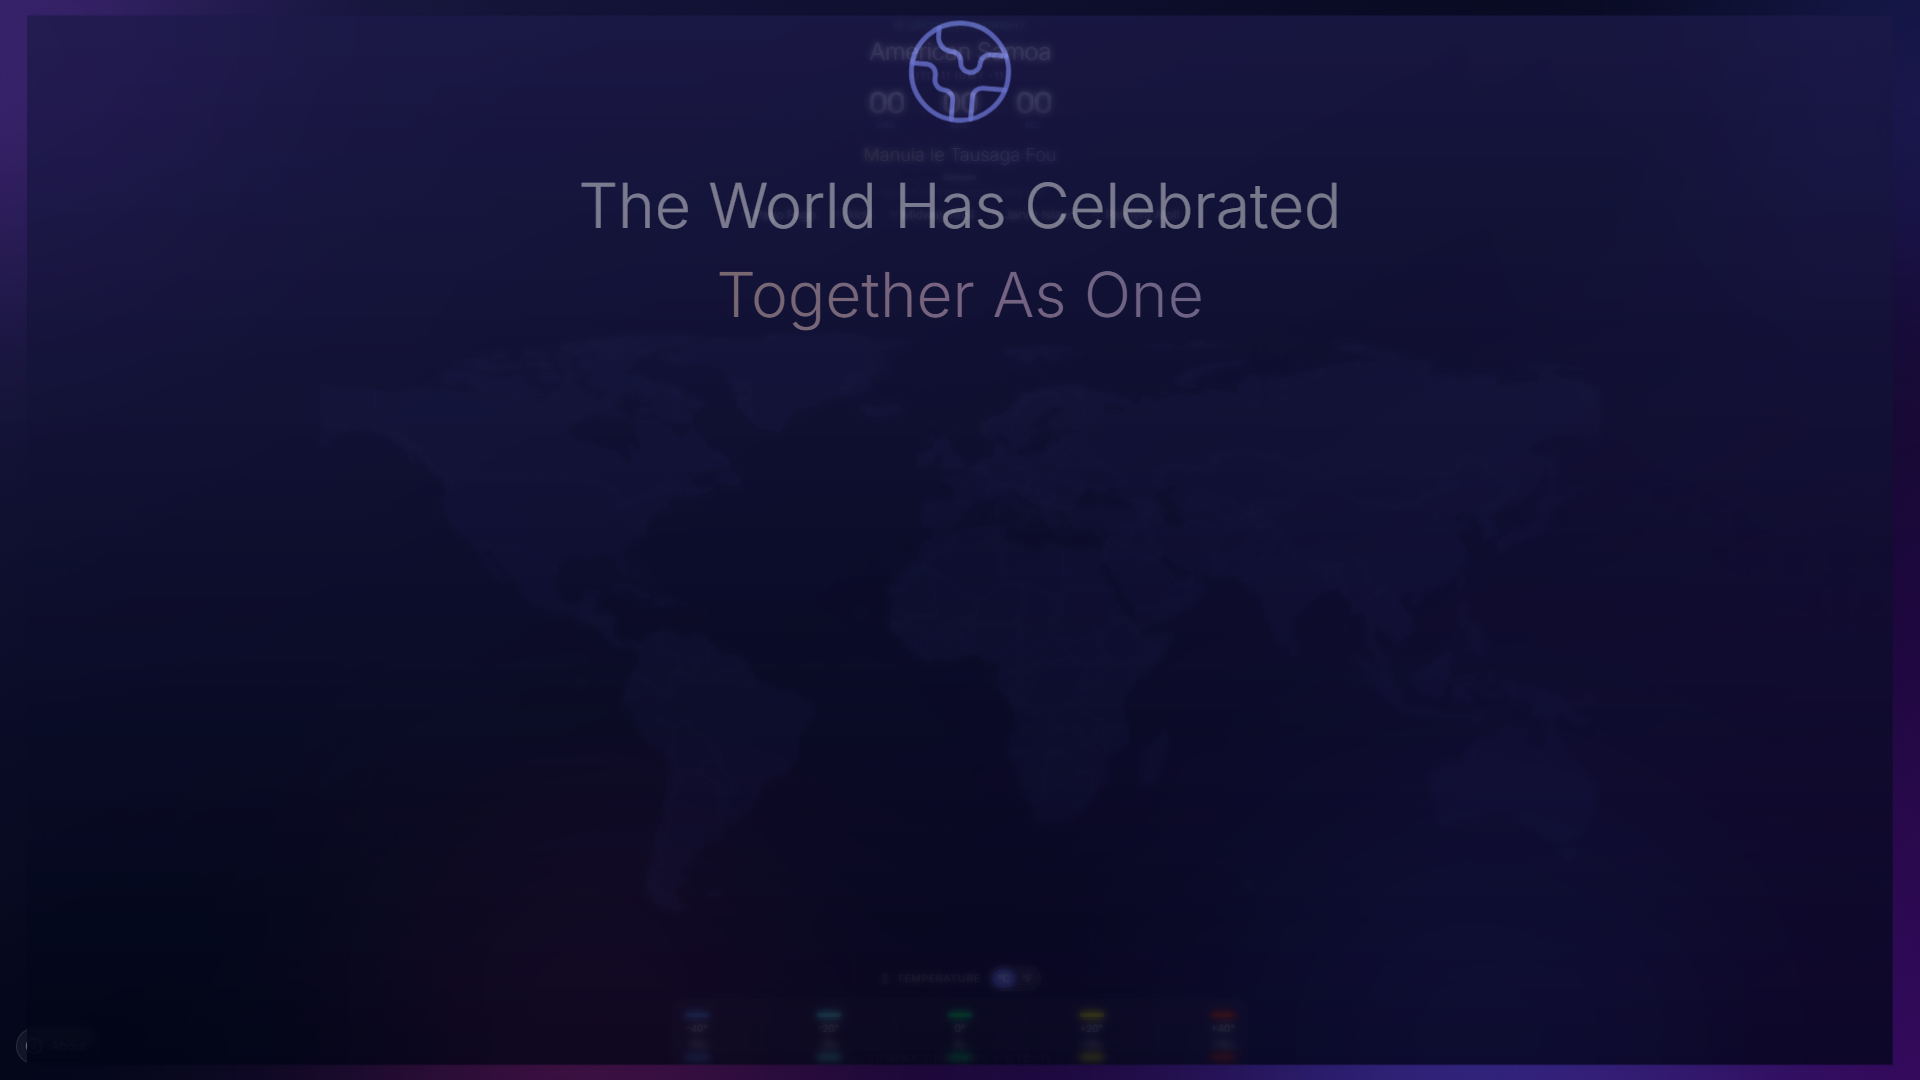
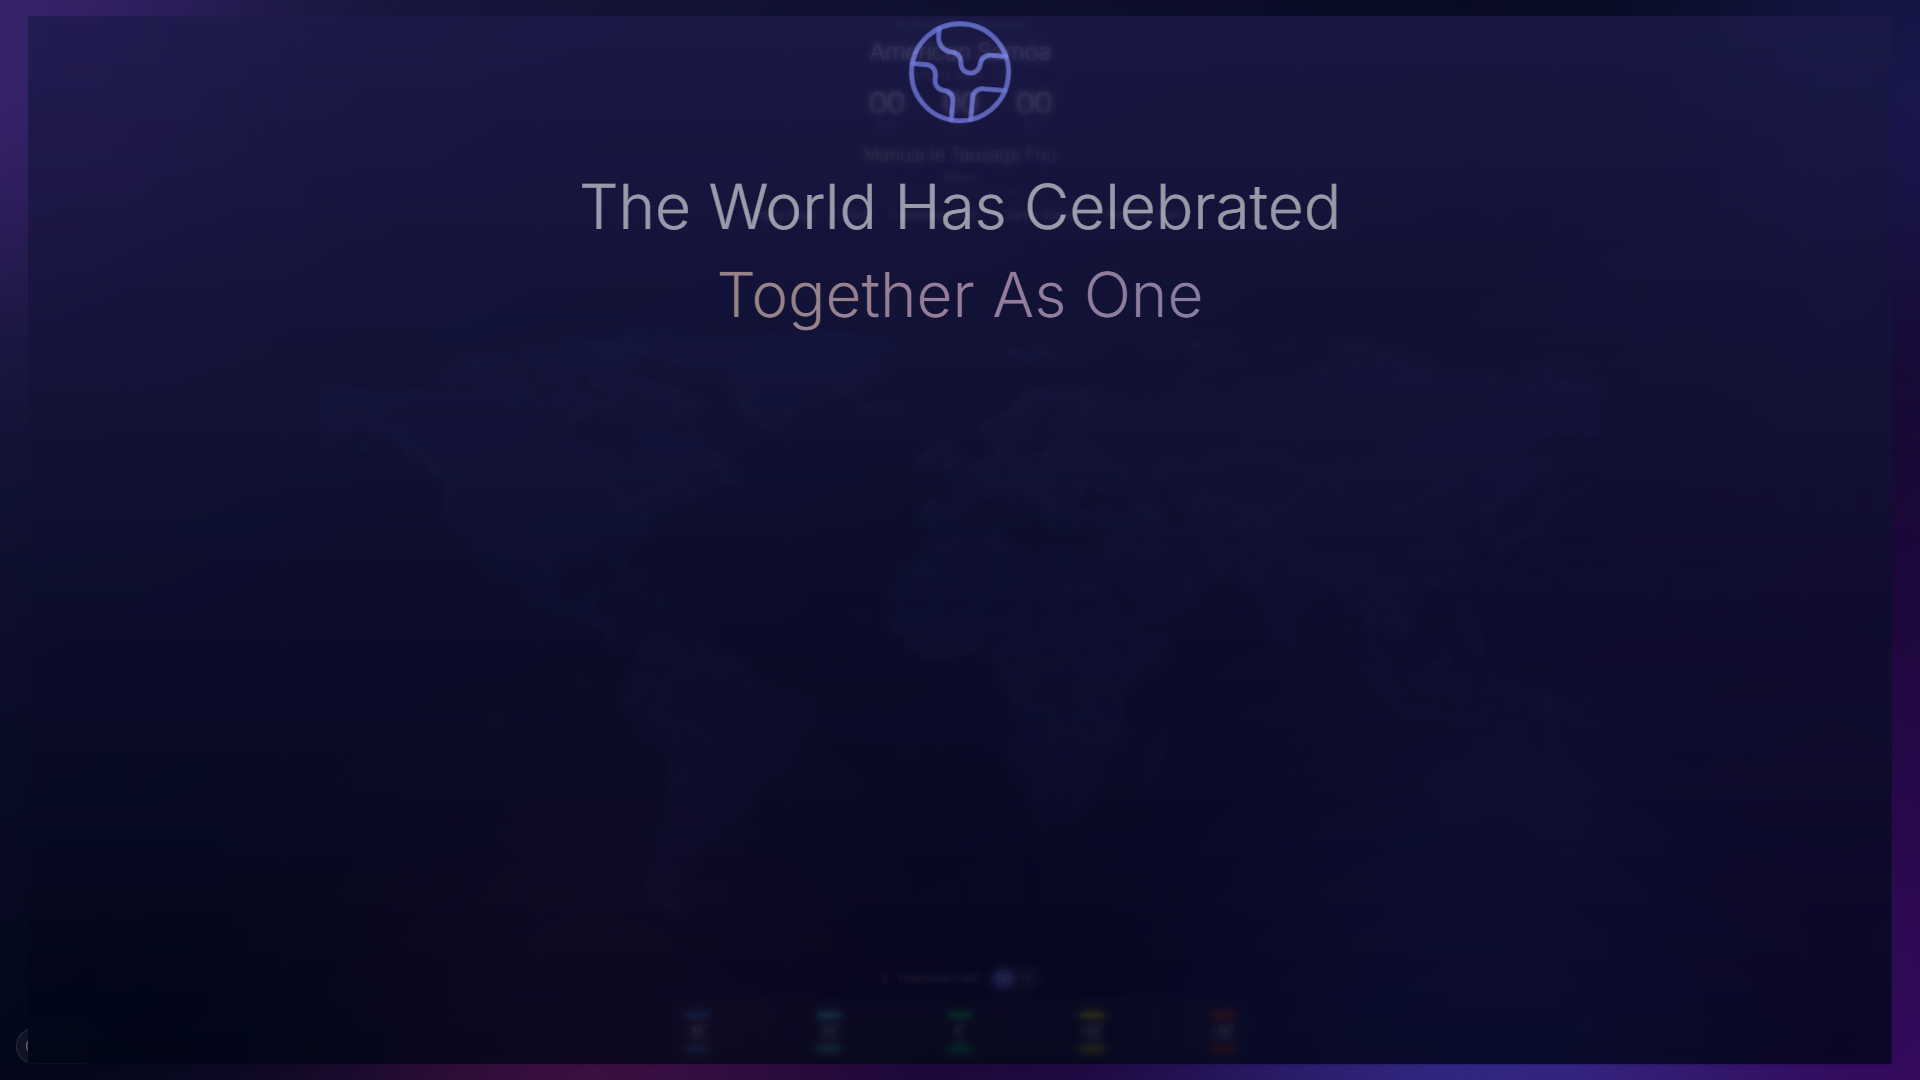
Fix Unity message clipping when zoomed in
- Lower minimum values in clamp() for all text elements
- Reduce icon minimum sizes to scale down further
- Add overflow-hidden to container
- Increase max-width to 95vw for better small viewport fit

🤖 Generated with [Claude Code](https://claude.com/claude-code)

Changed region(s): [[0.3125, 0.1528, 0.7188, 0.2139], [0.375, 0.2444, 0.5312, 0.3056], [0.5312, 0.2444, 0.625, 0.3056]]

diff --git a/components/UnityMessage.tsx b/components/UnityMessage.tsx
@@ -19,16 +19,16 @@ const UnityMessage: React.FC<UnityMessageProps> = ({ onShowEarth }) => {
 
   // Calculate responsive icon sizes based on viewport - sized to fit all content on screen
   const globeSize = typeof window !== 'undefined'
-    ? Math.max(40, Math.min(80, window.innerHeight * 0.08))
+    ? Math.max(24, Math.min(80, window.innerHeight * 0.08))
     : 60;
   const heartSize = typeof window !== 'undefined'
-    ? Math.max(24, Math.min(48, window.innerHeight * 0.045))
+    ? Math.max(16, Math.min(48, window.innerHeight * 0.045))
     : 32;
   const sparkleSize = typeof window !== 'undefined'
-    ? Math.max(14, Math.min(24, window.innerHeight * 0.025))
+    ? Math.max(10, Math.min(24, window.innerHeight * 0.025))
     : 18;
   const mapIconSize = typeof window !== 'undefined'
-    ? Math.max(14, Math.min(20, window.innerHeight * 0.02))
+    ? Math.max(10, Math.min(20, window.innerHeight * 0.02))
     : 16;
 
   return (
@@ -41,7 +41,7 @@ const UnityMessage: React.FC<UnityMessageProps> = ({ onShowEarth }) => {
       transition={{ duration: isExiting ? 0.8 : 1.5, ease: "easeOut" }}
       className="fixed inset-0 z-50 flex items-center justify-center bg-gradient-to-b from-indigo-950/95 via-slate-950/98 to-slate-950/95 backdrop-blur-sm"
     >
-      <div className="text-center px-6 max-w-[90vw] lg:max-w-[70vw] xl:max-w-[60vw]">
+      <div className="text-center px-4 max-w-[95vw] overflow-hidden">
         {/* Animated globe icon */}
         <motion.div
           animate={{
@@ -60,7 +60,7 @@ const UnityMessage: React.FC<UnityMessageProps> = ({ onShowEarth }) => {
           initial={{ opacity: 0, y: 20 }}
           animate={{ opacity: 1, y: 0 }}
           transition={{ delay: 0.5, duration: 1 }}
-          className="text-[clamp(1.5rem,3.5vw,2.75rem)] font-light text-white mb-[1.5vh] leading-tight"
+          className="text-[clamp(1rem,3.5vw,2.75rem)] font-light text-white mb-[1.5vh] leading-tight"
         >
           The World Has Celebrated
           <span className="block mt-[1vh] bg-gradient-to-r from-amber-200 via-pink-200 to-indigo-200 bg-clip-text text-transparent">
@@ -85,7 +85,7 @@ const UnityMessage: React.FC<UnityMessageProps> = ({ onShowEarth }) => {
           initial={{ opacity: 0, y: 20 }}
           animate={{ opacity: 1, y: 0 }}
           transition={{ delay: 1.2, duration: 1 }}
-          className="text-[clamp(0.875rem,1.8vw,1.125rem)] text-white/70 font-light leading-relaxed mb-[2vh]"
+          className="text-[clamp(0.65rem,1.8vw,1.125rem)] text-white/70 font-light leading-relaxed mb-[2vh]"
         >
           From the Line Islands to American Samoa, every corner of our planet
           has welcomed the new year. We shared the same sky, the same hope,
@@ -96,7 +96,7 @@ const UnityMessage: React.FC<UnityMessageProps> = ({ onShowEarth }) => {
           initial={{ opacity: 0, y: 20 }}
           animate={{ opacity: 1, y: 0 }}
           transition={{ delay: 1.8, duration: 1 }}
-          className="text-[clamp(1rem,2vw,1.35rem)] text-white/90 font-light italic mb-[2.5vh]"
+          className="text-[clamp(0.75rem,2vw,1.35rem)] text-white/90 font-light italic mb-[2.5vh]"
         >
           "Even as the world tries to divide us,
           <br className="hidden sm:block" />
@@ -123,7 +123,7 @@ const UnityMessage: React.FC<UnityMessageProps> = ({ onShowEarth }) => {
           initial={{ opacity: 0 }}
           animate={{ opacity: 1 }}
           transition={{ delay: 3, duration: 1 }}
-          className="mt-[2vh] text-[clamp(2rem,6vw,5rem)] font-thin text-white/20 tracking-widest"
+          className="mt-[2vh] text-[clamp(1.25rem,6vw,5rem)] font-thin text-white/20 tracking-widest"
         >
           2026
         </motion.p>
